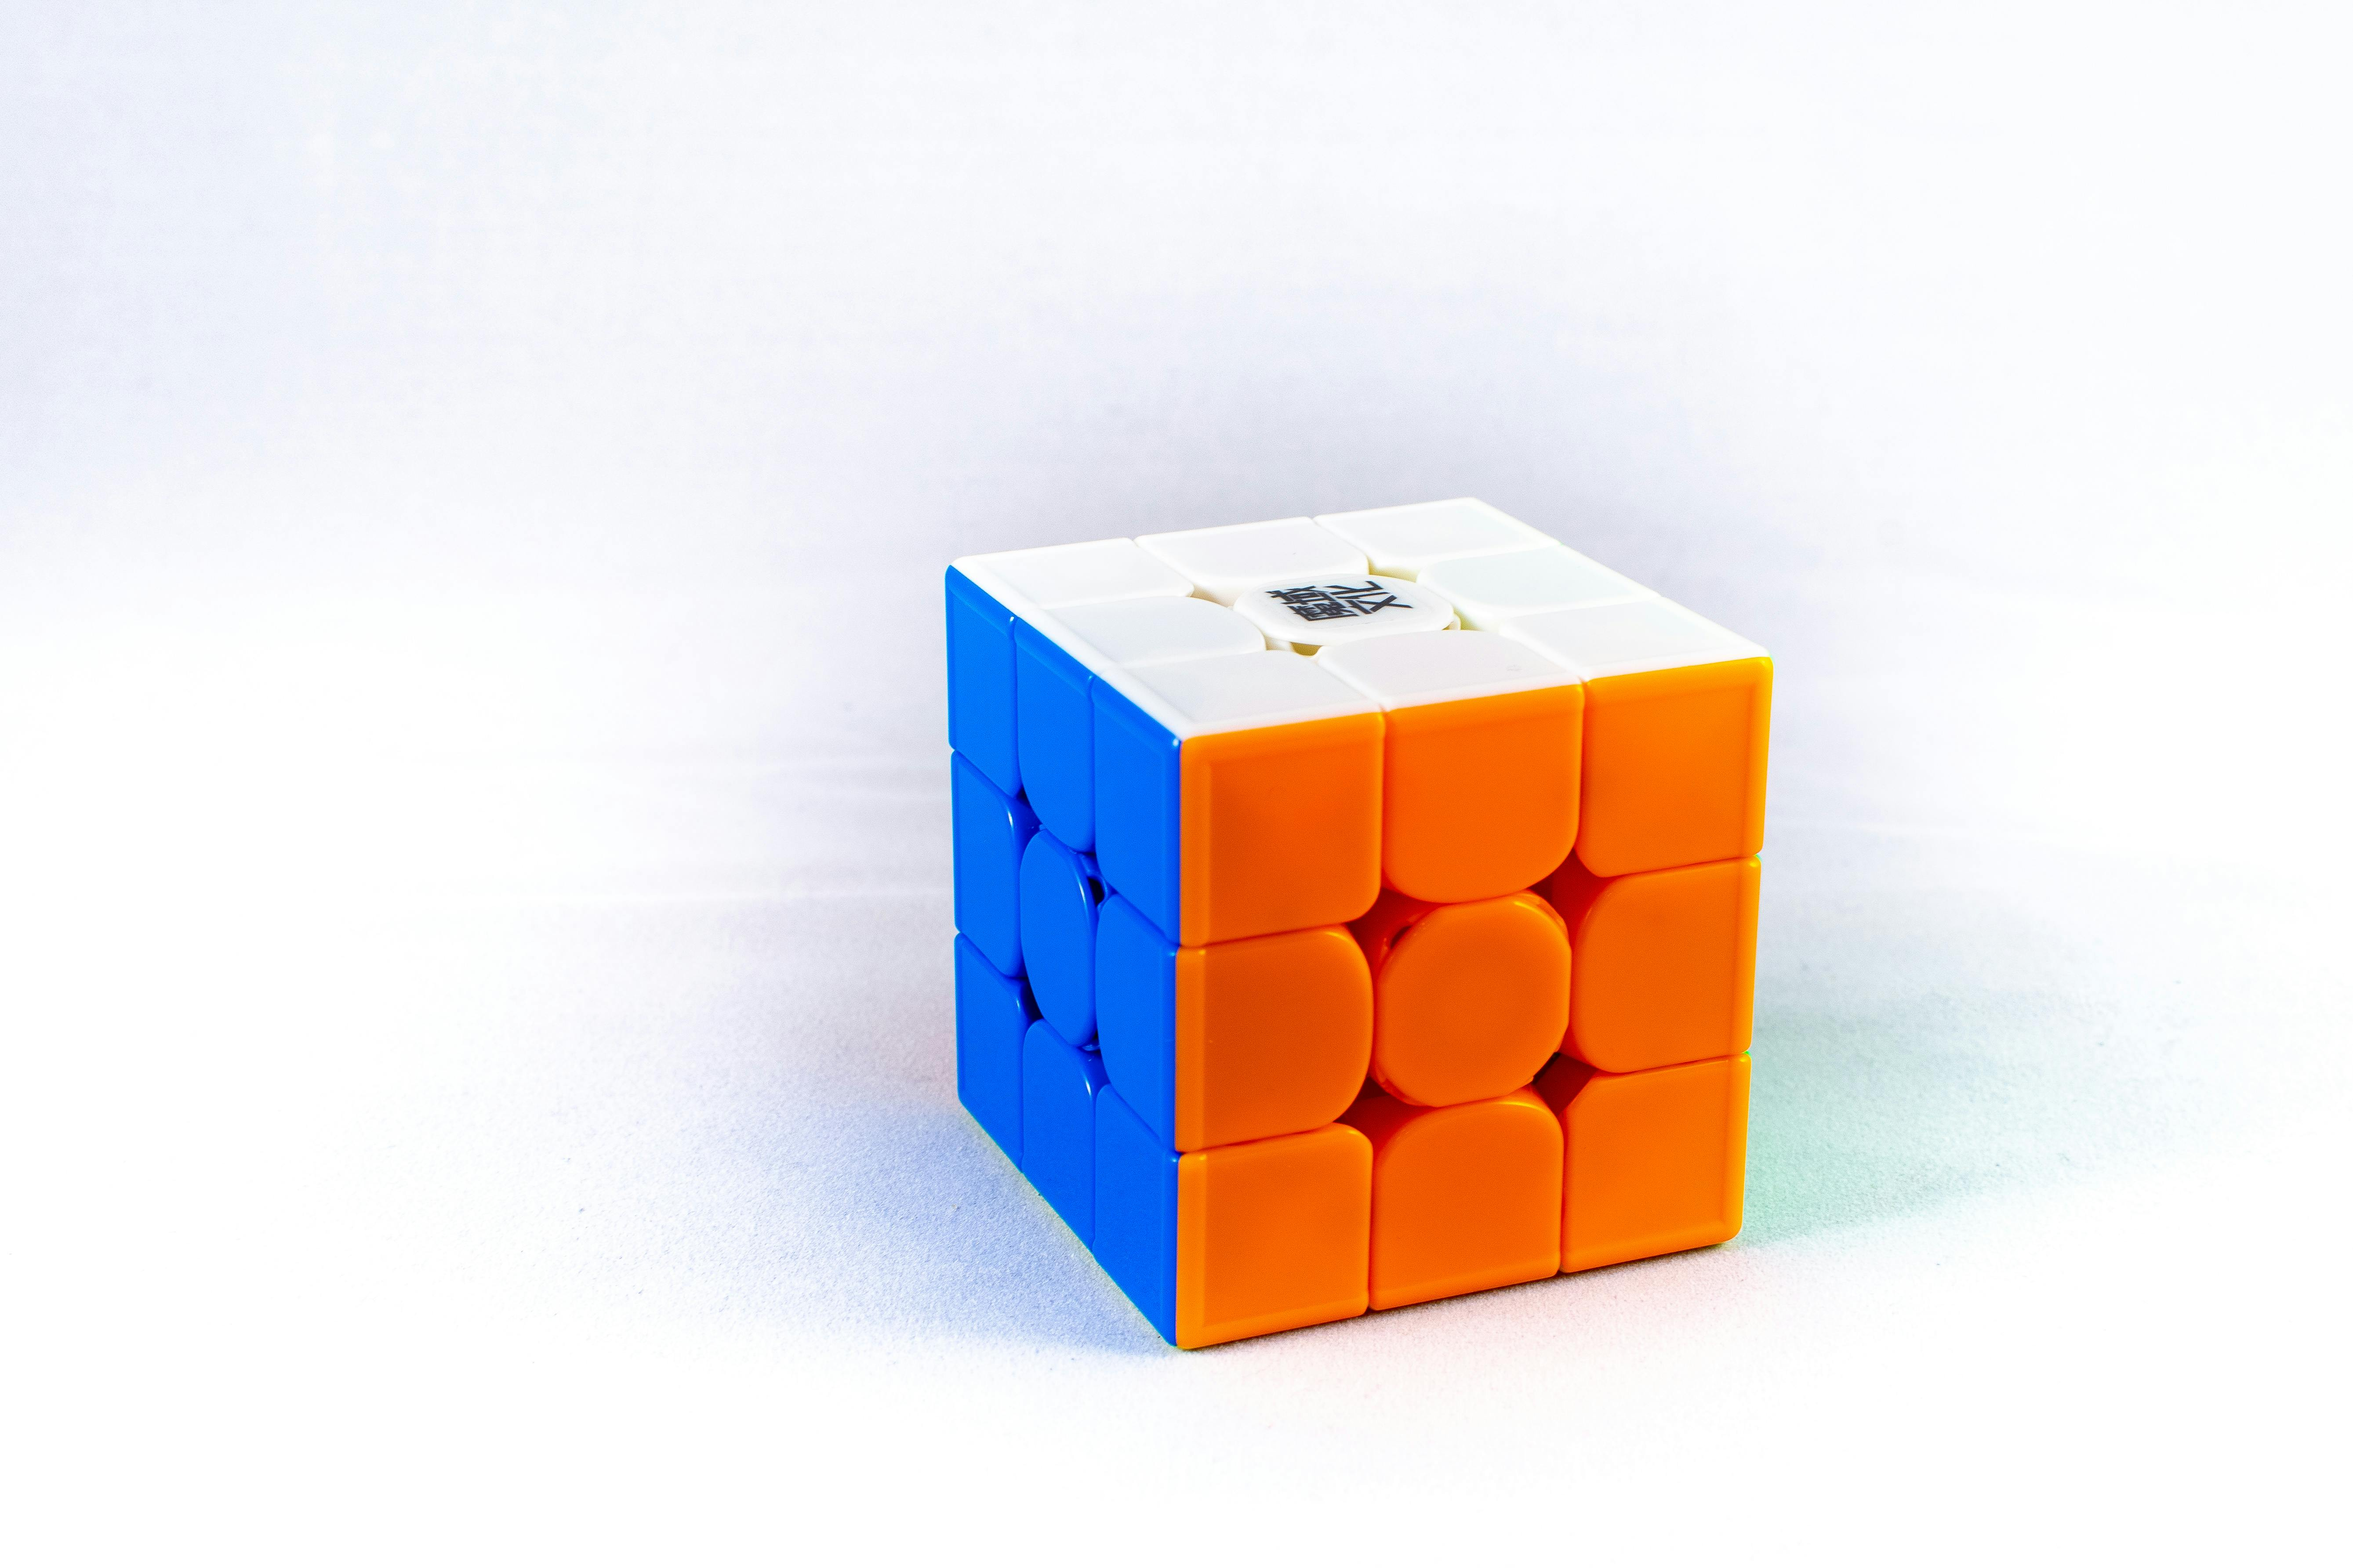
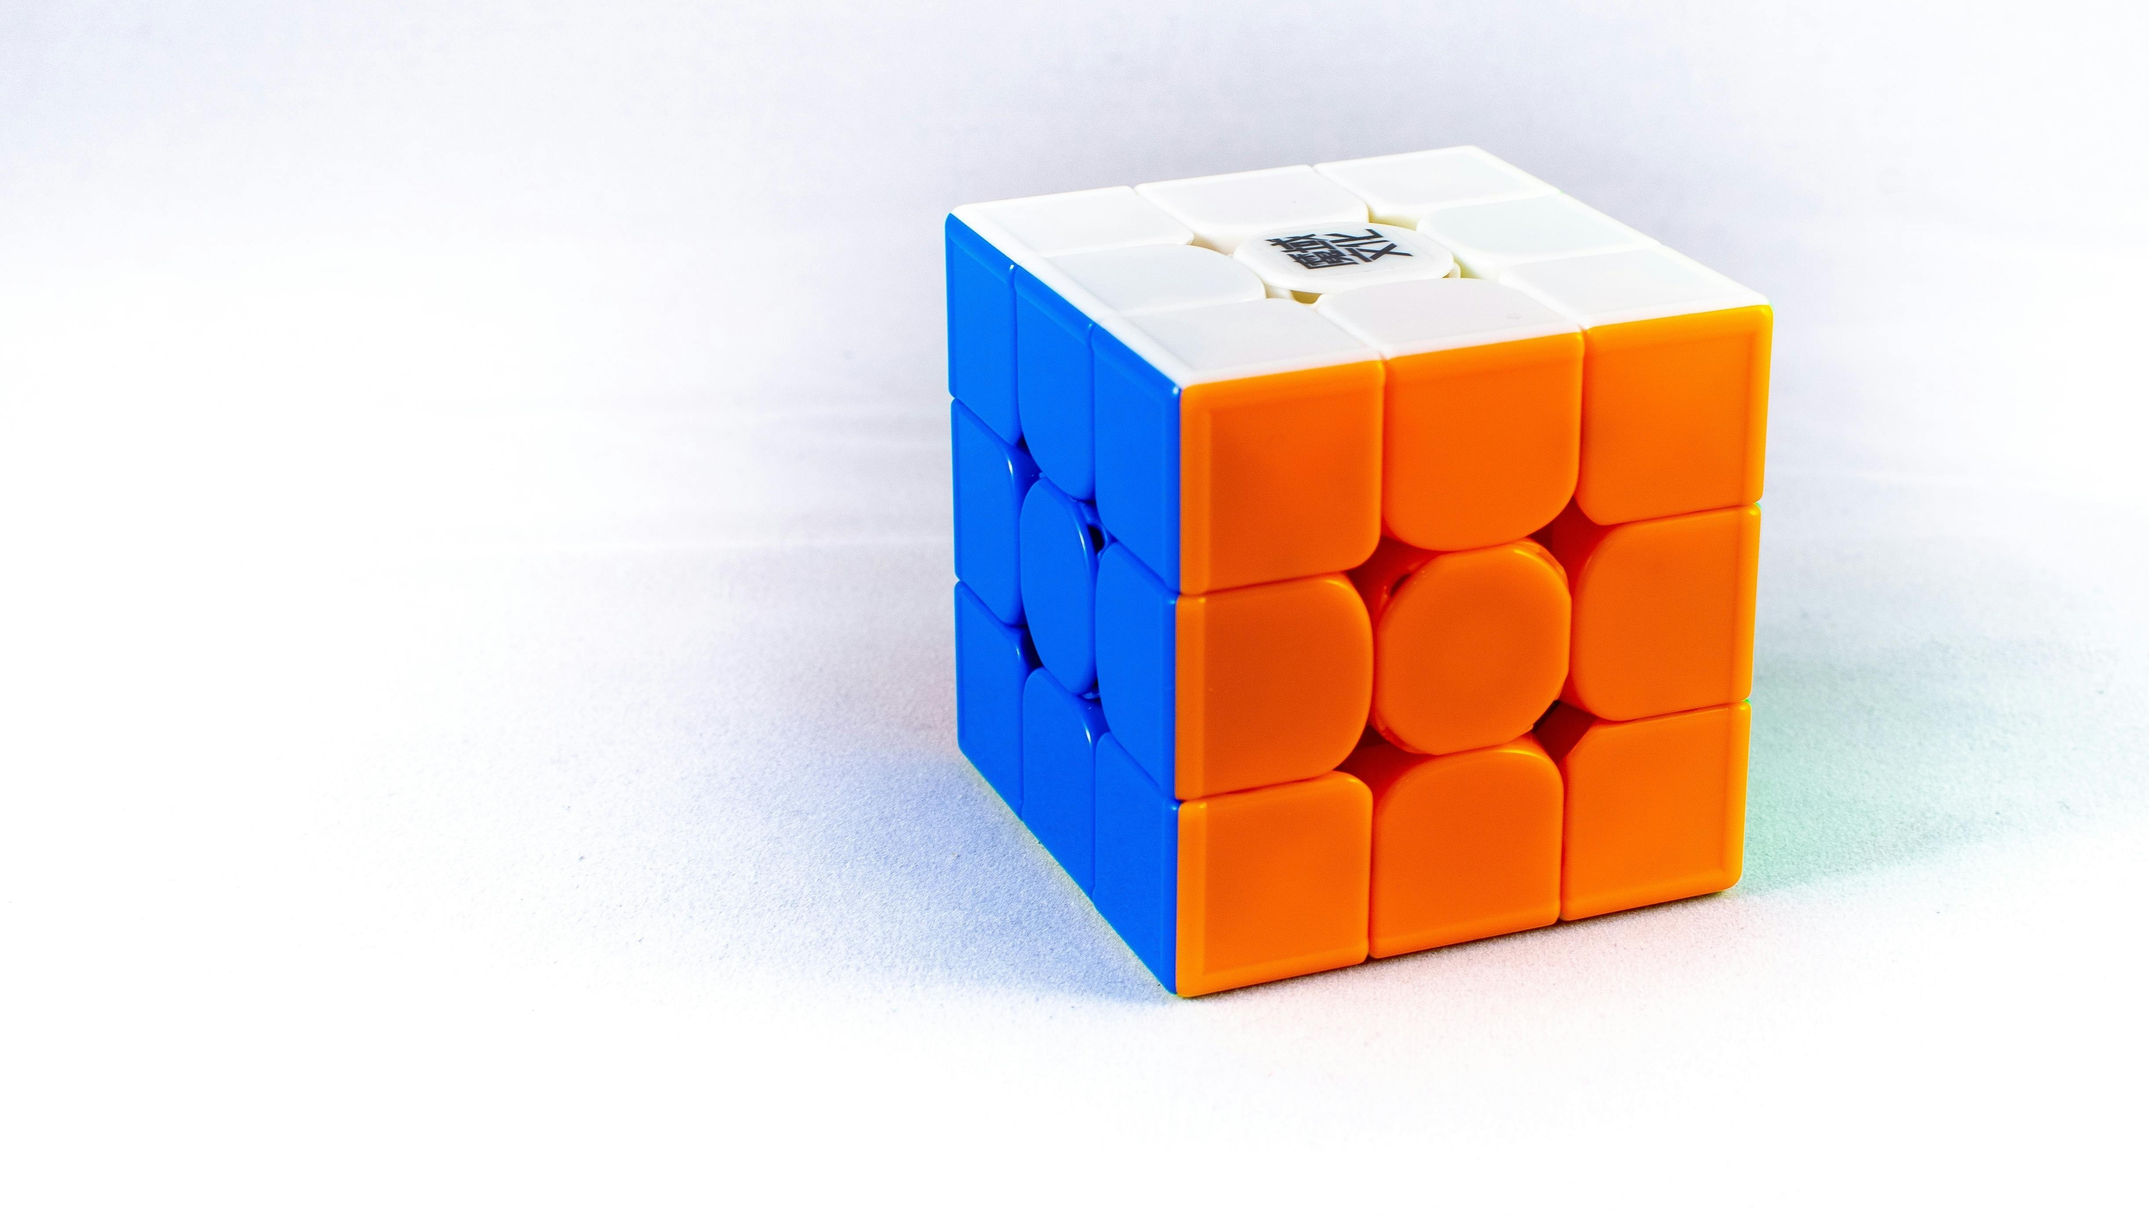
Updated desktop background image

Changed region(s): [[0.3108, 0.0311, 0.9636, 0.8699], [0.6528, 0.2175, 0.6838, 0.2486]]

diff --git a/css/main.css b/css/main.css
@@ -148,8 +148,8 @@ img {
   position: fixed;
   top: 0;
   left: 0;
-  right:0;
-  bottom:auto;
+  right: 0;
+  bottom: auto;
   height: 40px;
   line-height: 40px;
   width: 100%;
@@ -158,9 +158,9 @@ img {
   color: black;
   font-size: 0.9em;
   opacity: 1.0;
-  box-sizing:border-box;
-  overflow:hidden;
-  z-index:2;
+  box-sizing: border-box;
+  overflow: hidden;
+  z-index: 2;
 }
 
 .notification-bar p {
@@ -181,8 +181,8 @@ img {
   cursor: pointer;
 }
 
-.close:hover{
-  font-size:3em;
+.close:hover {
+  font-size: 3em;
 }
 
 .hide {
@@ -192,7 +192,7 @@ img {
 /*--_BASE HEADER STYLES-_-*/
 header {
   /*--for notifications bar--*/
-  margin-top:1.5em;
+  margin-top: 1.5em;
   /*--for header before--*/
   position: relative;
 }
@@ -214,7 +214,7 @@ header .content-wrapper {
   opacity: 1.0;
   display: flex;
   flex-direction: column;
-  z-index:1;
+  z-index: 1;
 }
 
 header nav ul {
@@ -229,7 +229,7 @@ header nav ul li a {
 }
 
 header nav ul li a:hover {
-  text-decoration: underline; 
+  text-decoration: underline;
 }
 
 header .header2 {
@@ -318,8 +318,8 @@ header h4 {
   box-shadow: 0 4px 12px rgba(0, 0, 0, .1), 0 23px 30px rgba(17, 24, 39, .2);
 }
 
-#projects .project-card figure{
-  margin-top:1em;
+#projects .project-card figure {
+  margin-top: 1em;
 }
 
 #projects img {
@@ -357,7 +357,7 @@ header h4 {
   margin: 0 0.5em;
   border-radius: 0.5em;
   padding: 0.2em 0.7em;
-  border:1.5px #152A3E solid;
+  border: 1.5px #152A3E solid;
 }
 
 #projects a i {
@@ -393,7 +393,7 @@ header h4 {
 #skills .content-wrapper {
   display: flex;
   flex-direction: column;
-  z-index:1;
+  z-index: 1;
 }
 
 #skills h2 {
@@ -482,8 +482,8 @@ footer .content-wrapper {
 
 #contact .hire,
 #contact .follow,
-#contact .meet{
-  margin-bottom:50px;
+#contact .meet {
+  margin-bottom: 50px;
 }
 
 #contact .follow h3,
@@ -503,7 +503,7 @@ footer .content-wrapper {
 #contact .hire address {
   margin-top: 30px;
   margin-bottom: 40px;
-  text-decoration:underline;
+  text-decoration: underline;
 }
 
 #contact .follow .social-icons {
@@ -515,7 +515,7 @@ footer .content-wrapper {
 
 #contact .follow .social-icons p {
   font-size: 1.5em;
-  margin:20px 0;
+  margin: 20px 0;
 }
 
 #contact .copyright {
@@ -646,12 +646,13 @@ TABLET STYLES
 
   #projects .projects-container {
     justify-content: center;
-    gap:3%;
+    gap: 3%;
   }
 
   #projects .project-card img {
-    height:10.5em;
+    height: 10.5em;
   }
+
   #projects .projects-container .project-card {
     flex-basis: 43%;
   }
@@ -758,6 +759,20 @@ DESKTOP STYLES
     max-height: 900px;
     display: flex;
     justify-content: center;
+  }
+
+  header::before {
+    content: "";
+    background: url('../img/pexels-brett-sayles-1751634.jpg') no-repeat;
+    background-size: cover;
+    background-position: center;
+    position: absolute;
+    top: 0px;
+    right: 0px;
+    bottom: 0px;
+    left: 0px;
+    opacity: 0.15;
+
   }
 
   header .content-wrapper {
@@ -869,11 +884,11 @@ DESKTOP STYLES
   #about figure {
     width: 42%;
     overflow: hidden;
-    margin-bottom:0;
+    margin-bottom: 0;
   }
 
-  #about img{
-    max-height:483.83px;
+  #about img {
+    max-height: 483.83px;
   }
 
   #about .about-content2 {
@@ -922,20 +937,21 @@ DESKTOP STYLES
     margin-bottom: 50px;
     font-size: 1.5em;
   }
-  #contact .footer-content .follow h3{
-    margin-bottom:40px;
-    font-size:1.5em;
+
+  #contact .footer-content .follow h3 {
+    margin-bottom: 40px;
+    font-size: 1.5em;
   }
 
   #contact .follow .social-icons {
-    gap:40px;
+    gap: 40px;
   }
 
   #contact .follow .social-icons p {
     font-size: 2em;
-    margin:0;
+    margin: 0;
   }
-  
+
   #contact .copyright {
     margin: 40px 0;
   }
